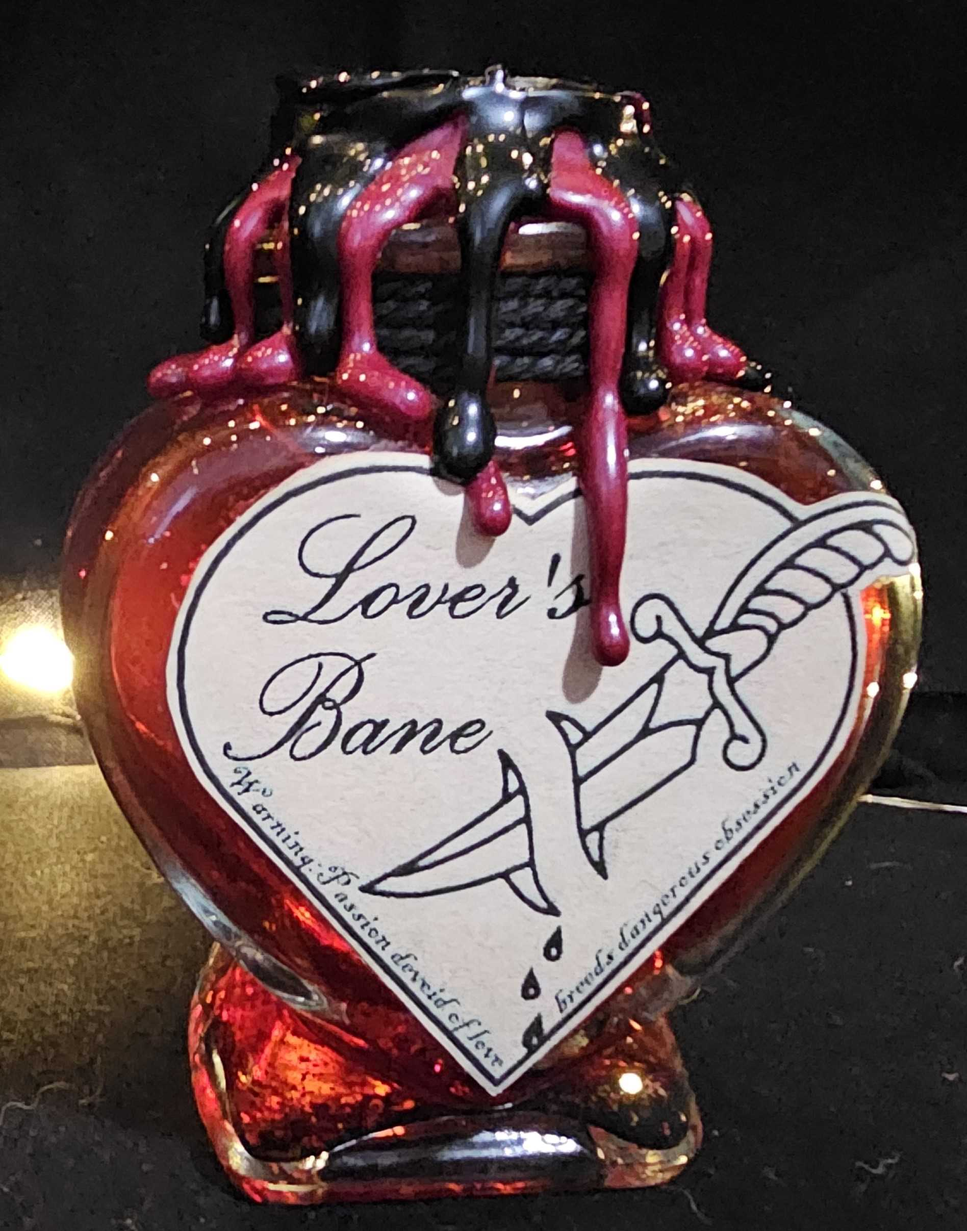
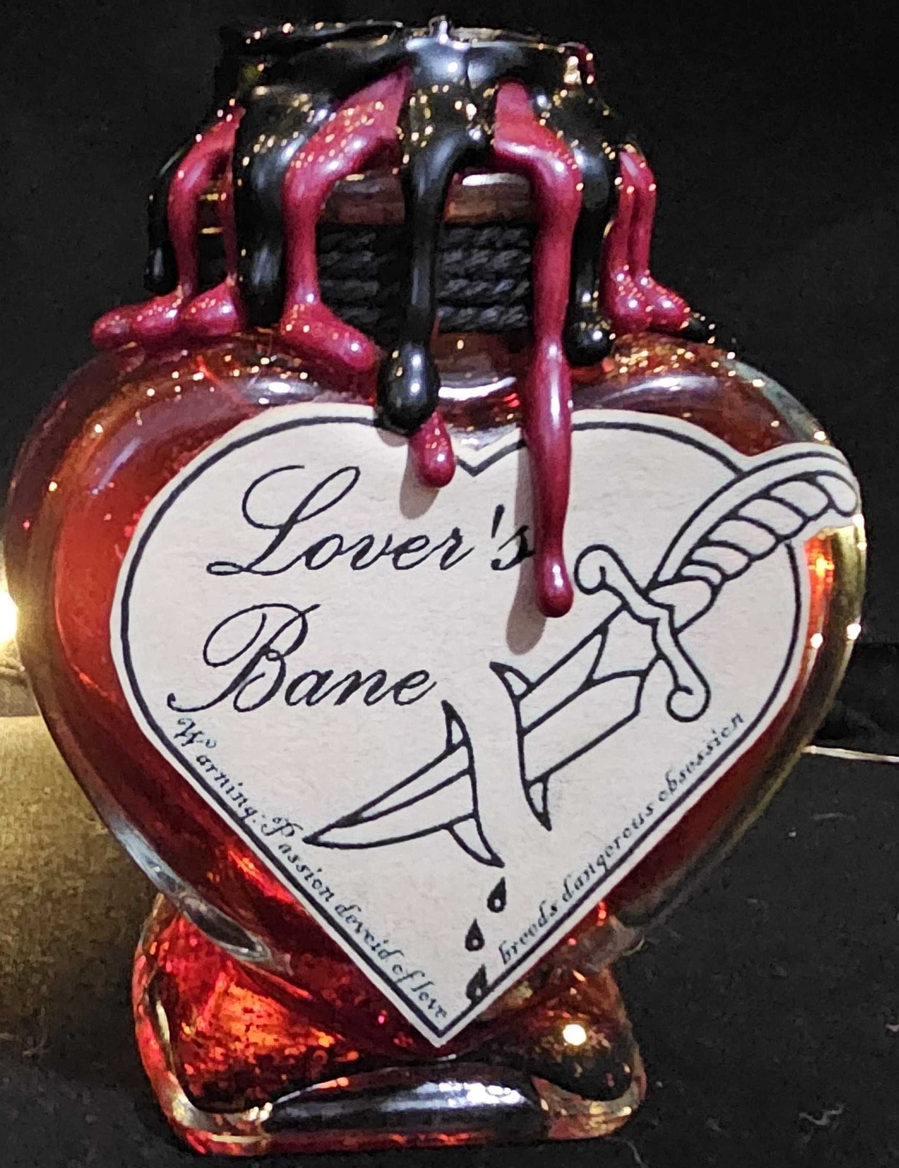
added new photos, updated index about grand opening, on potions page - fixed font issues and sizing, and updated disclaimer and page headings to match shopify, switched background image on wands.

diff --git a/potions.html b/potions.html
@@ -7,7 +7,7 @@
   <link rel="stylesheet" href="slidestyles.css">
 
 
-<title>Florrie's Misfit Potions</title>
+<title>Florrie's Mystical Potions</title>
 </head>
 
 <body style = "background-color: LightGray">
@@ -21,32 +21,37 @@
   </div>
 
 
-  <h1 style="text-align:center;">Florrie's Misfit Potions</h1>
-<h5 style="text-align:center;">*** DISCLAIIMER: Not for human (or animal) consumption. Not a toy. ***</h5>
+  <h1 style="text-align:center;">Florrie's Mystical Potions</h1>
+<h3 style="text-align:center;">Liquid fantasy for magical moments</h3>
 
 <div class="row">
   <div class="side">
-    <h4> All magic comes with a price. Florrie's potions have been designed with that thought in mind. The misuse of magic can have dire conswquences.</h4>
-    <p> Choose with care...
-      <ul>
-        <li>Lover's Bane ~ Can turn desire into a dangerous obsession</li>
-        <li>Midnight Tempest ~ Too much turns gentle rain into a raging flood.</li>
+    <h3> All magic comes with a price. Florrie's potions have been designed with that thought in mind. The misuse of magic can have dire consequences.</h3>
+    <p class = paraA> Choose with care...
+      <ul class="PotionList">
+        <li>Lover's Bane ~ Passion devoid of love breeds dangerous obsession</li>
+        <li>Midnight Tempest ~ Excessive use will cause prenatural phonomena</li>
         <li>Mermaid Breath ~ Prolonged use results in delusions and drowning.</li>
         <li>Lunaria Elixer ~ Excision before expiration results in death.</li>
-        <li>Fairy Lights ~</li>
-        <li>Midas Touch ~</li>
+        <li>Fairy Lights ~ Handle With Care. If broken, fairies will react with unpredictable results</li>
         <li>Death's Due ~ Warning: The reaper wil have his due.</li>
-        <li>Forrie's Fairy Wine ~ Pleseant for faries and elvish alike, poison to the wrong crowd. </li>
+        <li>Forrie's Fairy Wine ~ Delightful for fairies and magical kin, but for any human, after a thimble full, they will never remember what what happened that night.</li>
       </ul>
+    </p>
+    <p class = paraA>
+    <h3>****** DISCLAIMER: NOT FOR HUMAN CONSUMPTION!!!!!!</h3>
+    <h4>Strictly a prop!</h4>
+    Not responsible for side affects from misuse or stupidity. No real magic involved.  If you drink this, then you get what you deserve.  Who knows? You might get selected for the next Darwin Award. 
     </p>
   </div>
 
   <div class="main">
     <div class="slide">
       <div style="background-image:url(SiteShots/LoversBane.jpg)">Lover's Bane</div>
-      <div style="background-image:url(SiteShots/LoversBaneSeaL.jpg)">Lover's Bane Seal detail</div>
-      <div style="background-image:url(SiteShots/MermaidsBreath.jpg)">Mermaid's Breath</div>
-      <div style="background-image:url(SiteShots/LoversBane3R.jpg)">Lover's Bane</div>
+      <div style="background-image:url(SiteShots/DeathsDue.jpg)">Death's Due</div>
+      <div style="background-image:url(SiteShots/FairyLightsCrop.jpg)">Fairy Lights</div>
+      <div style="background-image:url(SiteShots/MidnightTempestCrop.jpg)">Midnight Tempest</div>
+      <div style="background-image:url(SiteShots/FairyWine.jpg)">Forrie's Fairy Wine<div>
       <div style="background-image:url(SiteShots/MermaidsBreathCrop.jpg)">Mermaid's Breath<div>
     </div>
   </div>

diff --git a/index.html b/index.html
@@ -4,6 +4,7 @@
 <meta name="facebook-domain-verification" content="198g6eps1xkb8xq5jckv3vszy69hnu" />
 <link rel="stylesheet" href="florrie.css">
 
+
 <title>Florrie's Magical Misfits</title>
 <meta charset="UTF-8">
 <meta name="viewport" content="width=device-width, initial-scale=1">
@@ -47,30 +48,29 @@ body
 
 <div class="row">
   <div class="side">
-    <h3> Upcoming Events</h3>
+    <h2> Upcoming Events</h2>
     <p>
-      <h4> Grand opening 8/26/2023</h4>
-      <p>
-        Going LIVE on TikTok at 5PM EST.
-        <br>Meet Florrie as she introduces her line of potions for use in cospay and gaming.
-        <br>Check out her TikTok channel for more info on discounts and giveaways. <p>Forrie's TicTok: <br> <a href="https://www.tiktok.com/@florriesmagicalmisfits">Forries Magical Misfits</a></p>
-      </p>
+
       <h4> Halloween Stream to be announced</h4>
       
     </p>
   </div>
   <div class="main">
-      <p>Insert a couple of pictures, current coupons or discounts, and maybe a form to colect emails...</p>
+     <p>
+      The grand opening was a success! See highlights on Florrie's TikTok channel here:
+      <br>
+       <a href="https://www.tiktok.com/@florriesmagicalmisfits">Forries Magical Misfits</a>
+       <br>  Two potions were created that night, one a mystery determined by the roll of dice and the other a delightful concoction personqlaized for one of our prizewinners.
+       <br>  It looks like Florrie is cooking up something special for October... and even more treats for the holiday season.  I hear wishes and cheer may be in the future...
+     </p>
   </div>
 </div>
-
+<br>
 <div class="footer">
     <h5>Contact Information</h5>
     <p>Find Forrie on Facebook at: <a href="https://www.facebook.com/KYGamergirl">Forries Magical Misfits</a></p> 
     <p>Forrie's Instagram: <a href="https://www.instagram.com/florriesmagicalmisfits">Forries Magical Misfits</a></p>
     <p>Send an email to Forrie at: <a href="mailto:florriesmagicalmisfits@gmail.com">Forrie MM</a></p> 
   </div>
-
-
 </body>
 </html>

diff --git a/wands.html b/wands.html
@@ -15,7 +15,7 @@
 </div>
 <style>
   body {
-    background-image: url(SiteShots/book3.jpg);
+    background-image: url(SiteShots/book4.jpg);
     background-position: center;
     background-size: cover;
     background-repeat: no-repeat; 

diff --git a/potionscol.css b/potionscol.css
@@ -1,3 +1,10 @@
+.paraA {
+font-size: 20px;
+}
+.PotionList {
+  font-size: 20px;
+}
+
 /* Ensure proper sizing */
 * {
     box-sizing: border-box;

diff --git a/slidestyles2.css b/slidestyles2.css
@@ -1,5 +1,5 @@
 .slide {
-    width: 400px;
+    width: 600px;
     height: 600px;
     overflow: hidden;
     position: relative;
